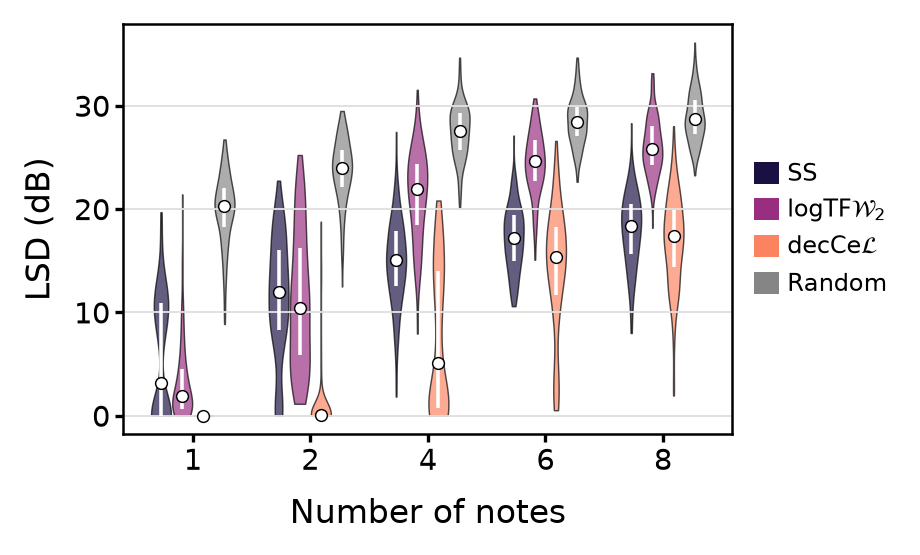
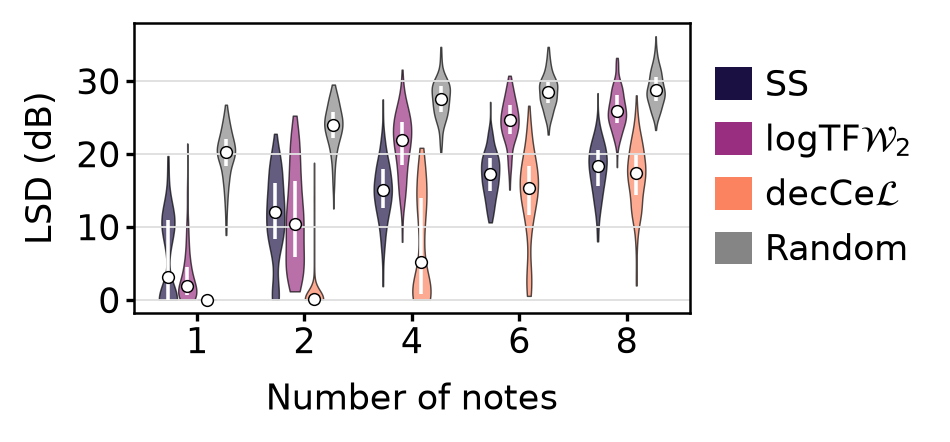
Shorten LSD figure and match its labels to caption text size

Changed region(s): [[0.0, 0.0294, 0.9739, 0.9412]]

diff --git a/scripts/report_nine_loss_recovery.py b/scripts/report_nine_loss_recovery.py
@@ -636,7 +636,7 @@ def render_lsd(lsd: dict, output_stem: Path) -> dict[str, str]:
         "dec_cel": cmap(0.74),
         "random": (0.52, 0.52, 0.52, 1.0),
     }
-    figure, axis = plt.subplots(figsize=(3.5, 1.9))
+    figure, axis = plt.subplots(figsize=(3.5, 1.4))
     offsets = np.linspace(-0.27, 0.27, len(LSD_FIGURE_LOSSES))
     for loss_index, loss in enumerate(LSD_FIGURE_LOSSES):
         for cardinality_index, cardinality in enumerate(recovery.CARDINALITIES):
@@ -672,9 +672,9 @@ def render_lsd(lsd: dict, output_stem: Path) -> dict[str, str]:
                 zorder=4,
             )
     axis.set_xticks(range(len(recovery.CARDINALITIES)), recovery.CARDINALITIES)
-    axis.set_xlabel("Number of notes", fontsize=8, labelpad=5)
-    axis.set_ylabel("LSD (dB)", fontsize=8)
-    axis.tick_params(labelsize=7, length=2.0, pad=1.2)
+    axis.set_xlabel("Number of notes", fontsize=8.5, labelpad=5)
+    axis.set_ylabel("LSD (dB)", fontsize=8.5)
+    axis.tick_params(labelsize=8.5, length=2.0, pad=1.2)
     axis.grid(axis="y", color="0.88", linewidth=0.45)
     handles = [
         Patch(facecolor=colors[loss], edgecolor="none", label=label)
@@ -686,7 +686,7 @@ def render_lsd(lsd: dict, output_stem: Path) -> dict[str, str]:
         loc="center left",
         bbox_to_anchor=(1.02, 0.5),
         frameon=False,
-        fontsize=5.7,
+        fontsize=8.5,
         handlelength=1.05,
         handleheight=1.05,
         handletextpad=0.35,
@@ -695,7 +695,7 @@ def render_lsd(lsd: dict, output_stem: Path) -> dict[str, str]:
     )
     for spine in axis.spines.values():
         spine.set_linewidth(0.6)
-    figure.subplots_adjust(left=0.16, right=0.74, bottom=0.26, top=0.98)
+    figure.subplots_adjust(left=0.16, right=0.69, bottom=0.29, top=0.98)
     paths = {suffix: output_stem.with_suffix(f".{suffix}") for suffix in ("pdf", "png")}
     for path in paths.values():
         save_figure(figure, path, pad_inches=0.08)
